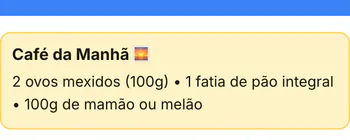
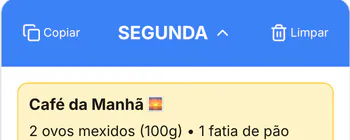
/2027 rodada 2: recortes novos do app (Casa, Hábitos, Alimentação, 22h) e espaçamento — chave segue "off"
Prints REAIS do app (demo /preview, dados de exemplo só no navegador da captura, relógio em 9/3/2027):
- Casa, Rotina e Compras: a LISTA DO MERCADO (o que o anúncio mostra) — o corredor HortiFrutti
  com o cabeçalho verde inteiro e a Banana marcada (ela acrescentou Tomate e Alface no app, 1/3).
- Hábitos: a grade de consistência INTEIRA (16 semanas × 7 dias, com buracos).
- Alimentação: o cabeçalho azul "SEGUNDA" inteiro + Café da Manhã + a 1ª linha do cardápio inteira
  (sem a faixa azul solta).
- 22h: DIA + 2 colunas inteiras (Beber 2L de água, Treinar), segunda e terça, sem os × de apagar
  (print com ponteiro de mouse: no celular o app mostra o × sempre, @media (hover: none)).

Espaçamento: o olho legível (+36 px) e as colunas inteiras das 22h (+27 px) empurravam o preço pra
3.164 px; −39 px de folga entre blocos e nas cenas → número do preço a 3.125 px no iPhone 390×844
(1ª tela igual, preço→botão 418 px, 253,4 KB).

Nada subiu.

diff --git a/src/p2027/style.css b/src/p2027/style.css
@@ -63,12 +63,13 @@ button,input{font:inherit}
 }
 
 /* 2 · um dia comum */
-.dia{padding-top:20px}
+/* rodada 2: −39 px de espaçamento entre a 1ª tela e o preço (o olho legível e a cena das 22h com colunas inteiras somaram +63) */
+.dia{padding-top:15px}
 .agenda{margin-top:12px;background:#fff;border-radius:18px;border:1px solid var(--linha);box-shadow:0 10px 26px rgba(40,25,45,.07);overflow:hidden}
 .agenda-topo{display:flex;justify-content:space-between;align-items:center;gap:8px;background:var(--grafite);color:#fff;padding:9px 14px;font-size:12px;font-weight:800;letter-spacing:.1em}
 .agenda-topo span+span{color:#f9b9d8;letter-spacing:.01em;font-weight:700;font-size:12.5px}
 .cenas{padding:0 12px;background-image:radial-gradient(rgba(38,36,40,.1) 1px,transparent 1.3px);background-size:14px 14px;background-position:7px 7px}
-.cena{display:grid;grid-template-columns:48px minmax(0,1fr);column-gap:10px;padding:10px 0 11px;border-bottom:1.5px dashed #e7dfe4}
+.cena{display:grid;grid-template-columns:48px minmax(0,1fr);column-gap:10px;padding:8px 0 10px;border-bottom:1.5px dashed #e7dfe4}
 .cena:last-child{border-bottom:0}
 .hora{align-self:start;text-align:center;font-size:13px;font-weight:800;line-height:1.1;padding:6px 0 5px;border-radius:9px;background:var(--hb);color:var(--hc)}
 .hora small{display:block;font-size:11px;font-weight:700;margin-top:2px}
@@ -83,7 +84,7 @@ button,input{font:inherit}
 .prova figcaption{font-size:14px;color:var(--suave);margin-top:5px;font-weight:600}
 
 /* 3 · as áreas (cartões pequenos, uma cor por área, 2 por linha) */
-.areas{padding-top:22px}
+.areas{padding-top:16px}
 .grade{display:grid;grid-template-columns:repeat(2,minmax(0,1fr));gap:8px;margin-top:12px}
 /* o recorte vai de borda a borda do cartão (quanto mais largo, maior a letra do app: ~70% do tamanho real em 390 px) */
 .area{display:flex;flex-direction:column;min-width:0;overflow:hidden;border-radius:16px;background:var(--c)}
@@ -101,19 +102,19 @@ button,input{font:inherit}
 .a-lei{--c:#fbe6d7;--t:#8c3d0c}
 .a-ali{--c:#e9f5d6;--t:#3f650c}
 .a-dev{--c:#efe3fd;--t:#6a2fb8}
-.mais10{margin-top:12px}
+.mais10{margin-top:10px}
 .pilulas{display:flex;flex-wrap:wrap;align-items:center;gap:3px 13px}
 .pilulas li.rot{font-size:15px;font-weight:800}
 .pilulas li.rot::before{display:none}
 .pilulas li{display:inline-flex;align-items:center;gap:6px;font-size:14px;font-weight:650;color:var(--grafite);line-height:1.5}
 .pilulas li::before{content:"";flex:none;width:9px;height:9px;border-radius:50%;background:var(--p)}
 /* rodada 2 (V-M4): o print do olho em 1 linha do app, na largura toda do cartão (a letra do app passa de ~6 px pra ~15 px), a frase embaixo */
-.esconder{display:grid;grid-template-columns:minmax(0,1fr);gap:7px;margin-top:12px;padding:8px 11px 10px;background:#fff;border:1px solid var(--linha);border-radius:16px}
+.esconder{display:grid;grid-template-columns:minmax(0,1fr);gap:7px;margin-top:10px;padding:8px 11px 10px;background:#fff;border:1px solid var(--linha);border-radius:16px}
 .esconder .recorte{box-shadow:none;border:0;border-radius:8px}
 .esconder p{font-size:14px;line-height:1.36;font-weight:700;color:var(--grafite)}
 
 /* 4 · o que o post não contou */
-.contou{padding-top:20px}
+.contou{padding-top:15px}
 .folha{background:#fff;border:1px solid var(--linha);border-radius:18px;overflow:hidden;box-shadow:0 12px 30px -24px rgba(40,20,30,.6)}
 .folha-faixa{padding:10px 14px;background:var(--grafite);color:#fff;font-size:12.5px;font-weight:800;letter-spacing:.12em}
 .folha-faixa span{color:#ff9ccc}
@@ -127,7 +128,7 @@ button,input{font:inherit}
 .folha-lista li::before{top:8px}
 
 /* 5 · depois de pagar */
-.depois{padding-top:20px}
+.depois{padding-top:15px}
 .passos{display:grid;gap:10px;margin-top:12px}
 .passos li{display:grid;grid-template-columns:28px minmax(0,1fr);gap:11px;align-items:start}
 .passos i{display:grid;place-items:center;width:28px;height:28px;border-radius:50%;background:var(--grafite);color:#fff;font-style:normal;font-size:14px;font-weight:800}
@@ -135,7 +136,7 @@ button,input{font:inherit}
 .passos p b{font-weight:800}
 
 /* 6 · o cartão do preço (o pagamento mora dentro dele: ./checkout.css) */
-.oferta{padding-top:20px}
+.oferta{padding-top:15px}
 .link-e-esse{margin-bottom:8px;font-size:20px;font-weight:850;letter-spacing:-.02em;color:var(--grafite)}
 .cartao{background:#fff;border:1.5px solid #ead0dd;border-radius:20px;overflow:hidden;box-shadow:0 18px 40px -26px rgba(169,31,99,.5)}
 .cartao-topo{display:flex;flex-wrap:wrap;justify-content:space-between;align-items:center;gap:2px 8px;padding:11px 16px;background:var(--grafite);color:#fff;font-size:12.5px;font-weight:800;letter-spacing:.08em}

diff --git a/2027.html b/2027.html
@@ -74,7 +74,7 @@ html[data-desligada] body{display:none}
     <ol class="cenas">
       <li class="cena c1"><p class="hora">7h40<small>manhã</small></p><div><p class="cena-txt"><b>Uma olhada no café:</b> a conta que vence e quanto ainda sobra.</p><figure class="recorte"><img src="/p2027/dia-manha.webp" width="548" height="188" alt="Tela real do app: as contas que vencem amanhã e em 2 dias" loading="lazy" decoding="async"></figure></div></li>
       <li class="cena c2"><p class="hora">12h30<small>almoço</small></p><div><p class="cena-txt"><b>Gastou? Anota em segundos.</b> Ele faz a conta.</p><figure class="recorte"><img src="/p2027/dia-almoco.webp" width="548" height="147" alt="Tela real do app: quanto posso gastar hoje" loading="lazy" decoding="async"></figure></div></li>
-      <li class="cena c3"><p class="hora">22h<small>noite</small></p><div><p class="cena-txt"><b>À noite, marca o que fez.</b></p><figure class="recorte"><img src="/p2027/dia-noite.webp" width="548" height="191" alt="Tela real do app: hábitos da semana, com dias marcados e dias em branco" loading="lazy" decoding="async"></figure></div></li>
+      <li class="cena c3"><p class="hora">22h<small>noite</small></p><div><p class="cena-txt"><b>À noite, marca o que fez.</b></p><figure class="recorte"><img src="/p2027/dia-noite.webp" width="548" height="245" alt="Tela real do app: hábitos da semana, com dias marcados e dias em branco" loading="lazy" decoding="async"></figure></div></li>
     </ol>
   </div>
   <p class="nota">Telas reais do app, com dados de exemplo.</p>
@@ -90,9 +90,9 @@ html[data-desligada] body{display:none}
   <ul class="grade" aria-label="As 6 áreas do post">
     <li class="area a-fin"><h3>Finanças ✅</h3><figure class="recorte"><img src="/p2027/area-financas.webp" width="350" height="140" alt="Tela real: gastos do mês por categoria" loading="lazy" decoding="async"></figure><p>Pra onde o dinheiro vai, e a conta antes de vencer.</p></li>
     <li class="area a-hab"><h3>Hábitos ✅</h3><figure class="recorte"><img src="/p2027/area-habitos.webp" width="350" height="140" alt="Tela real: a grade de consistência dos hábitos" loading="lazy" decoding="async"></figure><p>Marca o que fez. Sumiu uns dias? Continua de onde parou.</p></li>
-    <li class="area a-casa"><h3>Casa, Rotina e Compras ✅</h3><figure class="recorte"><img src="/p2027/area-casa.webp" width="350" height="140" alt="Tela real: afazeres da cozinha" loading="lazy" decoding="async"></figure><p>Lista do mercado por corredor e afazeres por cômodo.</p></li>
+    <li class="area a-casa"><h3>Casa, Rotina e Compras ✅</h3><figure class="recorte"><img src="/p2027/area-casa.webp" width="350" height="140" alt="Tela real: a lista do mercado, no corredor HortiFrutti" loading="lazy" decoding="async"></figure><p>Lista do mercado por corredor e afazeres por cômodo.</p></li>
     <li class="area a-lei"><h3>Leitura ✅</h3><figure class="recorte"><img src="/p2027/area-leitura.webp" width="350" height="140" alt="Tela real: o livro que você está lendo e quando termina" loading="lazy" decoding="async"></figure><p>Em que página você tá e quando termina o livro.</p></li>
-    <li class="area a-ali"><h3>Alimentação ✅</h3><figure class="recorte"><img src="/p2027/area-alimentacao.webp" width="350" height="140" alt="Tela real: o cardápio da semana" loading="lazy" decoding="async"></figure><p>O cardápio da semana, com a lista de compras.</p></li>
+    <li class="area a-ali"><h3>Alimentação ✅</h3><figure class="recorte"><img src="/p2027/area-alimentacao.webp" width="350" height="140" alt="Tela real: o cardápio da semana, na segunda" loading="lazy" decoding="async"></figure><p>O cardápio da semana, com a lista de compras.</p></li>
     <li class="area a-dev"><h3>Desenvolvimento Pessoal ✅</h3><figure class="recorte"><img src="/p2027/area-metas.webp" width="350" height="140" alt="Tela real: o plano de ação de cada meta" loading="lazy" decoding="async"></figure><p>Suas metas de 2027, cada uma com o plano pra chegar lá.</p></li>
   </ul>
   <div class="mais10">
